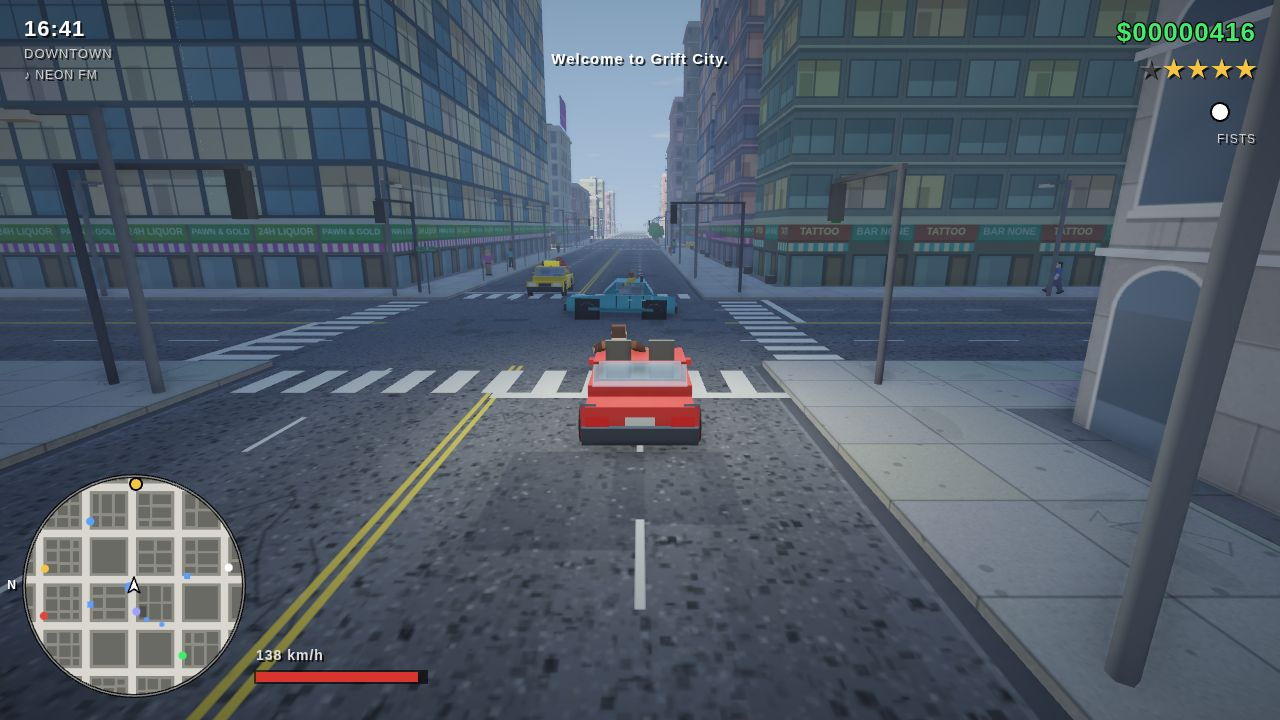
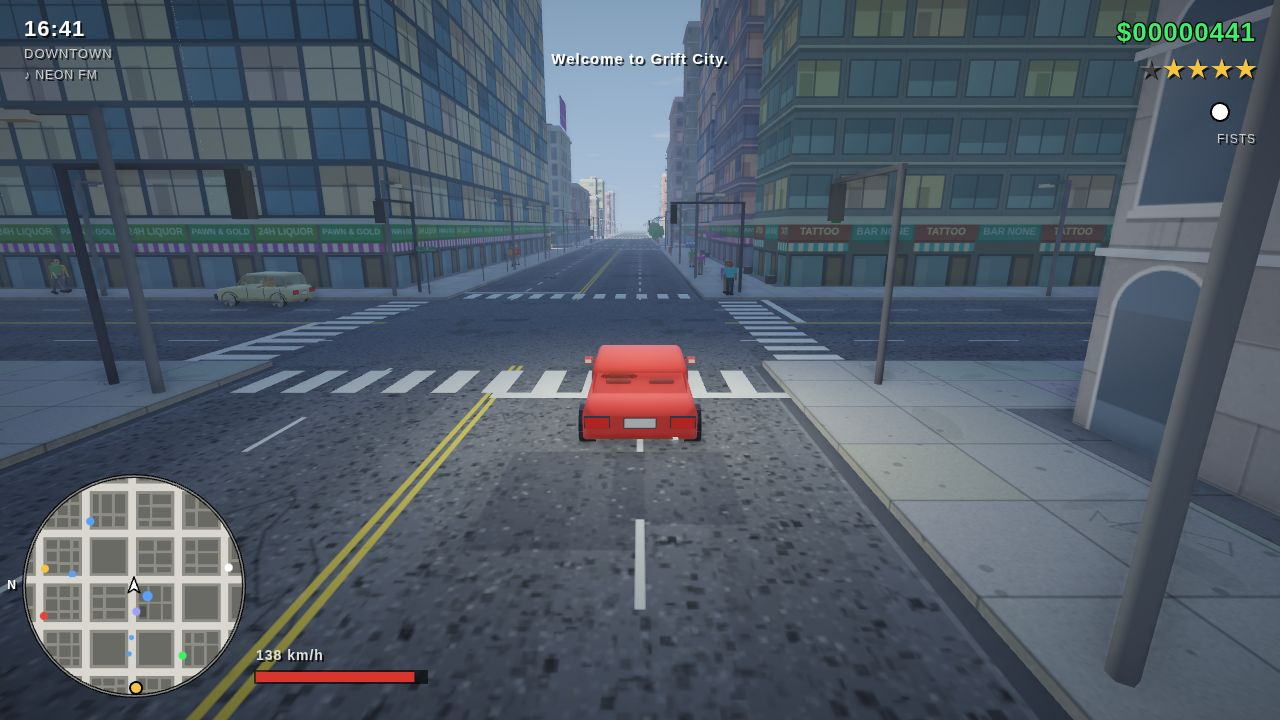
Grift City: fire warning when your car is about to blow, fresh screenshots, bot bails from burning cars

diff --git a/grift-city/dist/grift-city.html b/grift-city/dist/grift-city.html
@@ -2174,7 +2174,7 @@ const VEH = (() => {
       const hf = this.health / this.maxHealth;
       if (!this.wrecked && hf < 0.35 && W.state.frame % 3 === 0) { const f = this.fwd; W.FX.smoke(this.x + f[0] * this.spec.len * 0.4, this.y + 1, this.z + f[1] * this.spec.len * 0.4, 1, hf < 0.15); }
       if (!this.wrecked && hf < 0.25 && this.driver && this.driver !== PLAYER && !this.driver.isCop && this.ai.mode !== 'chase' && this.absSpeed < 6) { const d = this.driver; d.exitCar(); d.state = 'flee'; d.fear = 12; d.threat = [this.x, this.z]; d.say(W.rng() < 0.5 ? "It's going to blow!" : 'Get away from it!'); this.ai.mode = 'parked'; for (const q of this.passengers.slice()) { q.exitCar(); q.scare(this.x, this.z); } }
-      if (!this.wrecked && hf < 0.12) { this.fireT += dt; const f = this.fwd; if (W.state.frame % 2 === 0) W.FX.fire(this.x + f[0] * this.spec.len * 0.4, this.y + 1, this.z + f[1] * this.spec.len * 0.4, 1); if (this.fireT > 5) this.explode(); }
+      if (!this.wrecked && hf < 0.12) { if (this.fireT === 0 && this.driver === PLAYER) HUD.notify("The engine's on fire. Get out!"); this.fireT += dt; const f = this.fwd; if (W.state.frame % 2 === 0) W.FX.fire(this.x + f[0] * this.spec.len * 0.4, this.y + 1, this.z + f[1] * this.spec.len * 0.4, 1); if (this.fireT > 5) this.explode(); }
       if (this.wrecked && this.fireT < 10) { this.fireT += dt; if (W.state.frame % 2 === 0) { W.FX.fire(this.x, this.y + 0.8, this.z, 1); if (W.state.frame % 4 === 0) W.FX.smoke(this.x, this.y + 1, this.z, 1, true); } }
     }
     physics(dt) {

diff --git a/grift-city/js/vehicles.js b/grift-city/js/vehicles.js
@@ -48,7 +48,7 @@ const VEH = (() => {
       const hf = this.health / this.maxHealth;
       if (!this.wrecked && hf < 0.35 && W.state.frame % 3 === 0) { const f = this.fwd; W.FX.smoke(this.x + f[0] * this.spec.len * 0.4, this.y + 1, this.z + f[1] * this.spec.len * 0.4, 1, hf < 0.15); }
       if (!this.wrecked && hf < 0.25 && this.driver && this.driver !== PLAYER && !this.driver.isCop && this.ai.mode !== 'chase' && this.absSpeed < 6) { const d = this.driver; d.exitCar(); d.state = 'flee'; d.fear = 12; d.threat = [this.x, this.z]; d.say(W.rng() < 0.5 ? "It's going to blow!" : 'Get away from it!'); this.ai.mode = 'parked'; for (const q of this.passengers.slice()) { q.exitCar(); q.scare(this.x, this.z); } }
-      if (!this.wrecked && hf < 0.12) { this.fireT += dt; const f = this.fwd; if (W.state.frame % 2 === 0) W.FX.fire(this.x + f[0] * this.spec.len * 0.4, this.y + 1, this.z + f[1] * this.spec.len * 0.4, 1); if (this.fireT > 5) this.explode(); }
+      if (!this.wrecked && hf < 0.12) { if (this.fireT === 0 && this.driver === PLAYER) HUD.notify("The engine's on fire. Get out!"); this.fireT += dt; const f = this.fwd; if (W.state.frame % 2 === 0) W.FX.fire(this.x + f[0] * this.spec.len * 0.4, this.y + 1, this.z + f[1] * this.spec.len * 0.4, 1); if (this.fireT > 5) this.explode(); }
       if (this.wrecked && this.fireT < 10) { this.fireT += dt; if (W.state.frame % 2 === 0) { W.FX.fire(this.x, this.y + 0.8, this.z, 1); if (W.state.frame % 4 === 0) W.FX.smoke(this.x, this.y + 1, this.z, 1, true); } }
     }
     physics(dt) {

diff --git a/grift-city/tools/playtest/bot.js b/grift-city/tools/playtest/bot.js
@@ -32,6 +32,7 @@
     if (waitT > 0) { waitT -= 0.1; setKeys([]); return; }
     if (s.car) {
       const c = s.car;
+      if (c.health < 0.14 && !c.wrecked) { setKeys([]); tap('KeyF'); say({ act: 'bail burning car', hp: +c.health.toFixed(2) }); waitT = 1.5; route = null; return; }
       if (targetIsCar) { if (dT < 9 && s.blip.carSpeed < 2.5) tgtStopT += 0.1; else tgtStopT = 0; }
       if (targetIsCar && dT < 9 && (s.blip.carDriver === 'none' || tgtStopT > 2.5)) { if (c.abs > 2) { setKeys(['KeyS']); return; } setKeys([]); tap('KeyF'); say({ act: 'exit to jack', dT: +dT.toFixed(1), drv: s.blip.carDriver }); route = null; waitT = 1.5; return; }
       if (!targetIsCar && dT < 7) { if (c.abs > 1.5) { setKeys(['KeyS']); return; } if (/get out|Park|marker|Stop the/i.test(s.objective)) { stopT = (stopT || 0) + 0.1; if (stopT < 2) { setKeys([]); return; } stopT = 0; setKeys([]); tap('KeyF'); say({ act: 'exit at target' }); waitT = 1.5; return; } }
